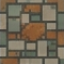
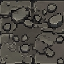
Scope Compatibility renderer to web builds; fix swing edge exposure
Test passed: lighting, tiles, generation, and combat all verified in
browser. Desktop returns to Forward+; web builds get gl_compatibility
via platform override. Viewmodel swing now pivots at the bottom-right
corner with a smaller lift so the canvas cut edge stays off screen.

diff --git a/docs/roadmap.md b/docs/roadmap.md
@@ -66,4 +66,7 @@ Each phase is independently shippable and playtestable.
 - Doors, keys, locked treasure rooms
 - Bosses every N floors
 - Minimap from the ASCII grid
-- Web export for the portfolio site (needs Compatibility renderer test)
+- Web export for the portfolio site — **validated 2026-07-10**: runs in
+  browser via the single-threaded Web preset; web builds use the
+  Compatibility renderer (`rendering_method.web` override), desktop
+  stays Forward+. Deploy whenever wanted.